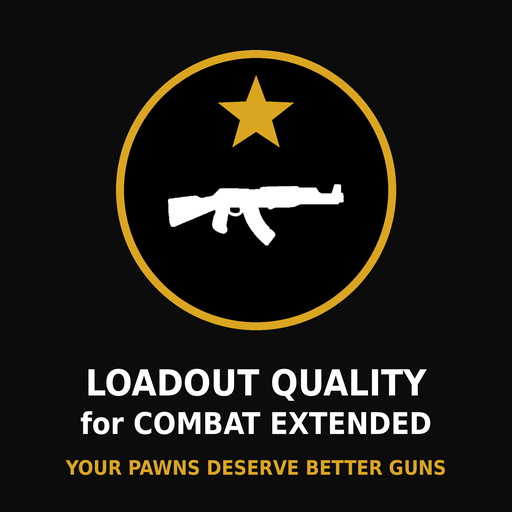
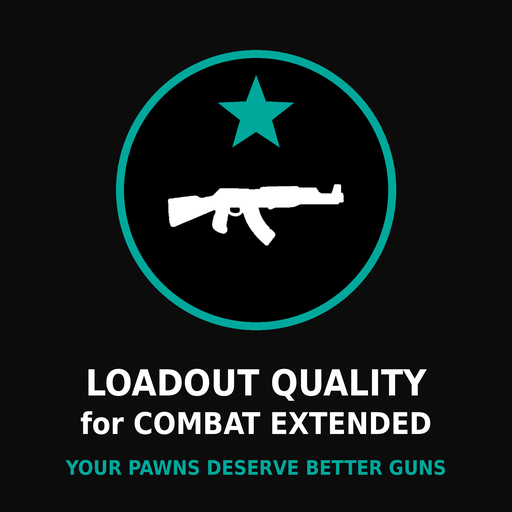
docs: LQ accent to masterwork teal — amber collided with the Loadouts Module badge
Claude-Session: https://claude.ai/code/session_01S7UhaiJhucrnfzBHvweEyL

diff --git a/Media/badge_gen.py b/Media/badge_gen.py
@@ -1,7 +1,7 @@
 #!/usr/bin/env python3
 """LQ badge + Workshop preview. Same geometry system as the CE+SS suite badges
 (300x100 bar/circle/ring-knockout; 512 preview) — visually consistent, distinct
-identity: goldenrod accent (quality), emblem = CE's rifle glyph (this is a CE
+identity: masterwork-teal accent (quality), emblem = CE's rifle glyph (this is a CE
 mod; glyph remixed from CE's Badge_CE_compatible.svg, CC BY-NC-SA, CE team)
 crowned with a quality star. Run from Media/: python3 badge_gen.py"""
 import collections
@@ -14,7 +14,7 @@ FONT = "/usr/share/fonts/dejavu-sans-fonts/DejaVuSansCondensed-Bold.ttf"
 S = 4
 BLACK = (0, 0, 0, 255)
 WHITE = (255, 255, 255, 255)
-GOLD = (218, 165, 32, 255)
+GOLD = (0, 168, 156, 255)  # masterwork teal — amber/gold collided with the Loadouts Module badge
 
 
 def extract_rifle():
